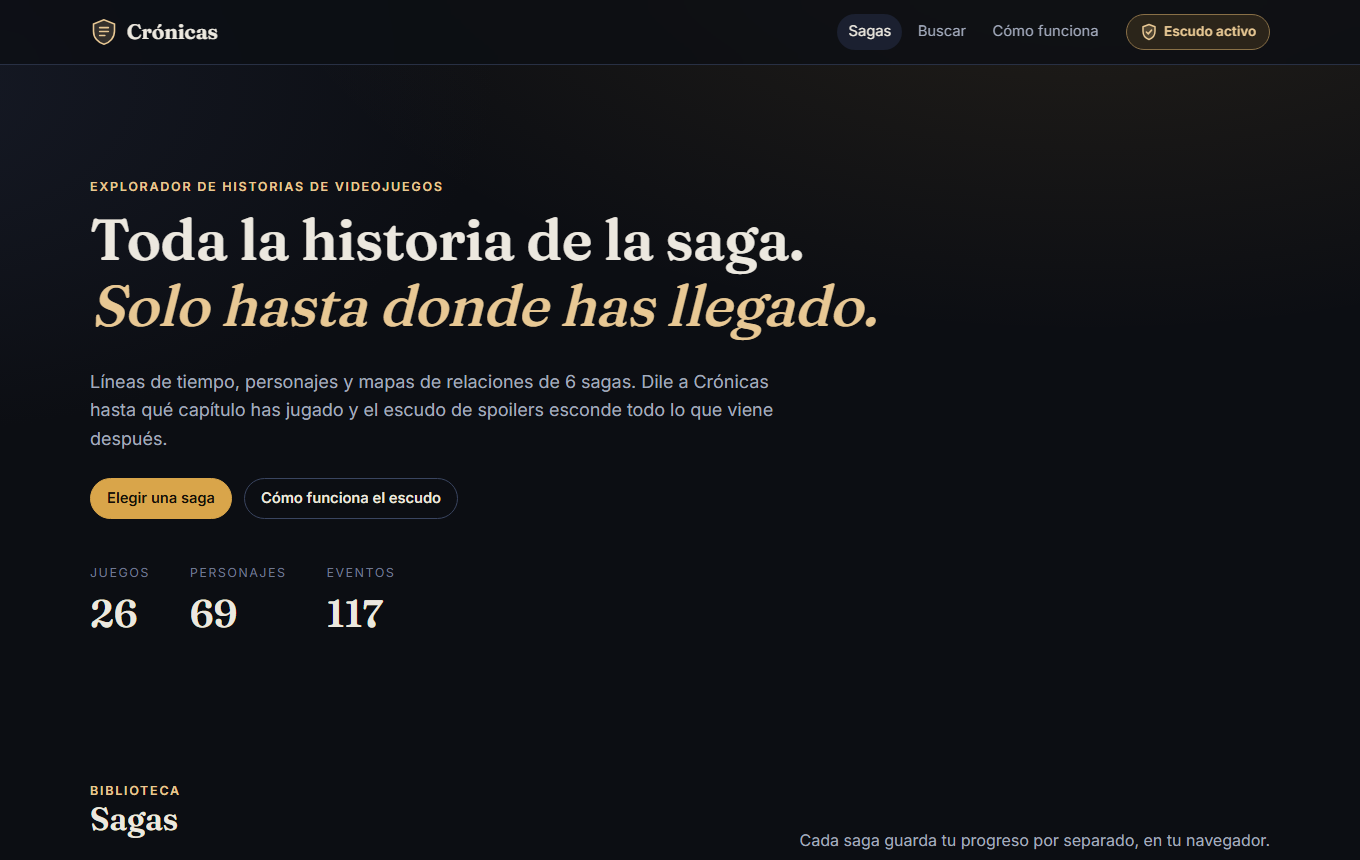
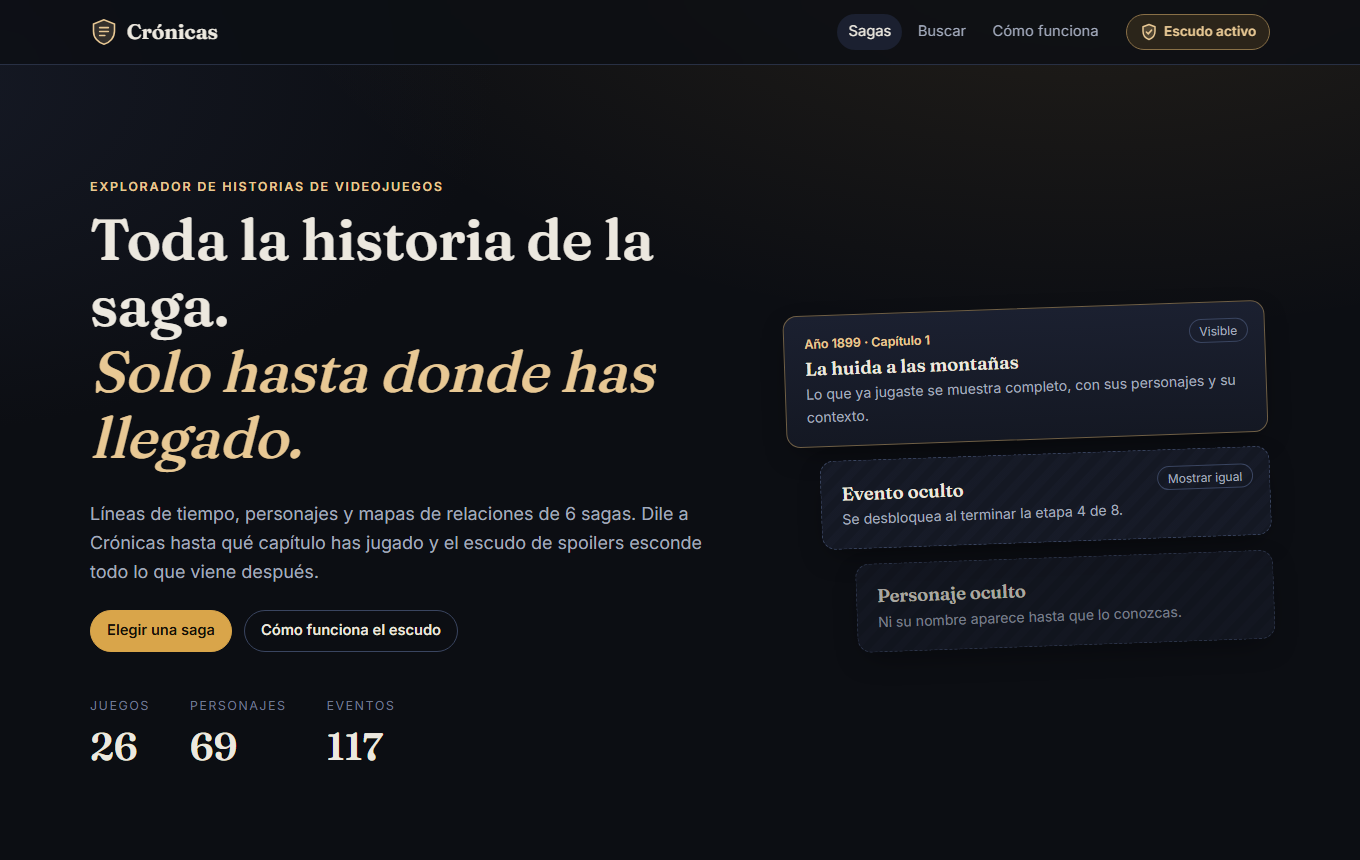
Corrige el canon de The Witcher, Mass Effect y Metal Gear Solid; muestra del escudo en la portada
- Etapas reveladas demasiado pronto, relaciones con dirección errónea y
  desenlaces que dependen de decisiones del jugador.
- El script de spoilers trunca el progreso igual que sanitizeProgress.
- Selector de orden con aria-pressed y grafo accesible para lectores de pantalla.
- Pruebas e2e con menos paralelismo para que no fallen por carga.

diff --git a/playwright.config.ts b/playwright.config.ts
@@ -5,6 +5,8 @@ export default defineConfig({
   fullyParallel: true,
   forbidOnly: !!process.env.CI,
   retries: process.env.CI ? 1 : 0,
+  workers: process.env.CI ? 2 : 3,
+  expect: { timeout: 10_000 },
   reporter: process.env.CI ? 'github' : 'list',
   use: {
     baseURL: 'http://localhost:4321/cronicas/',
